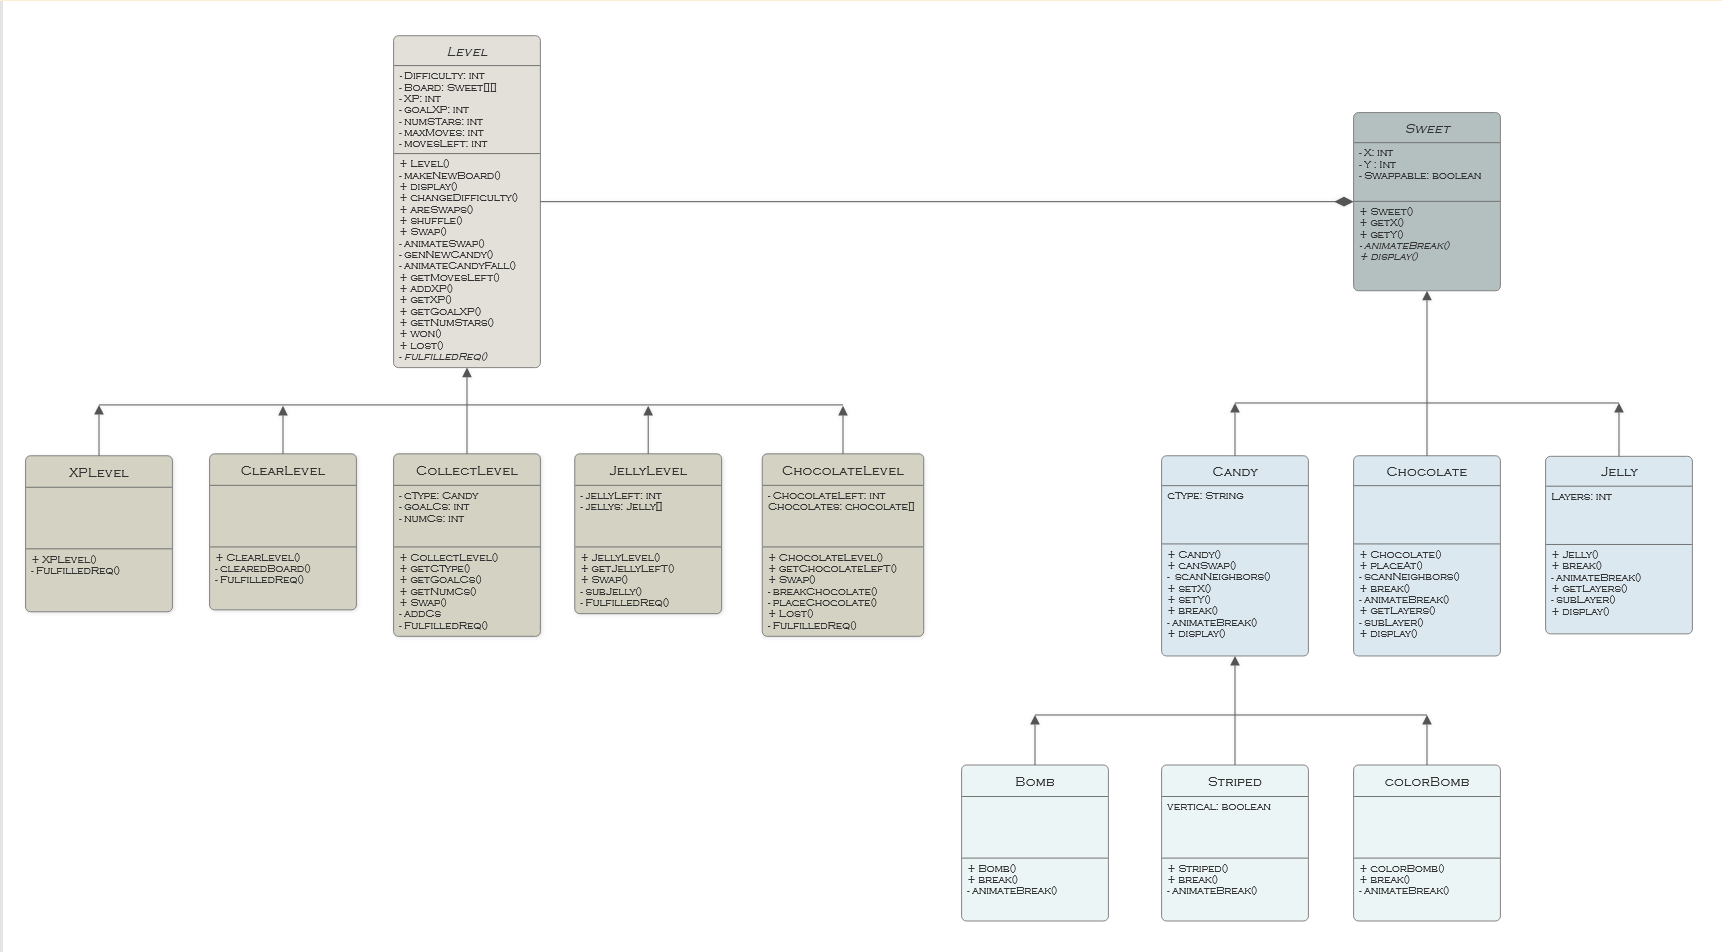
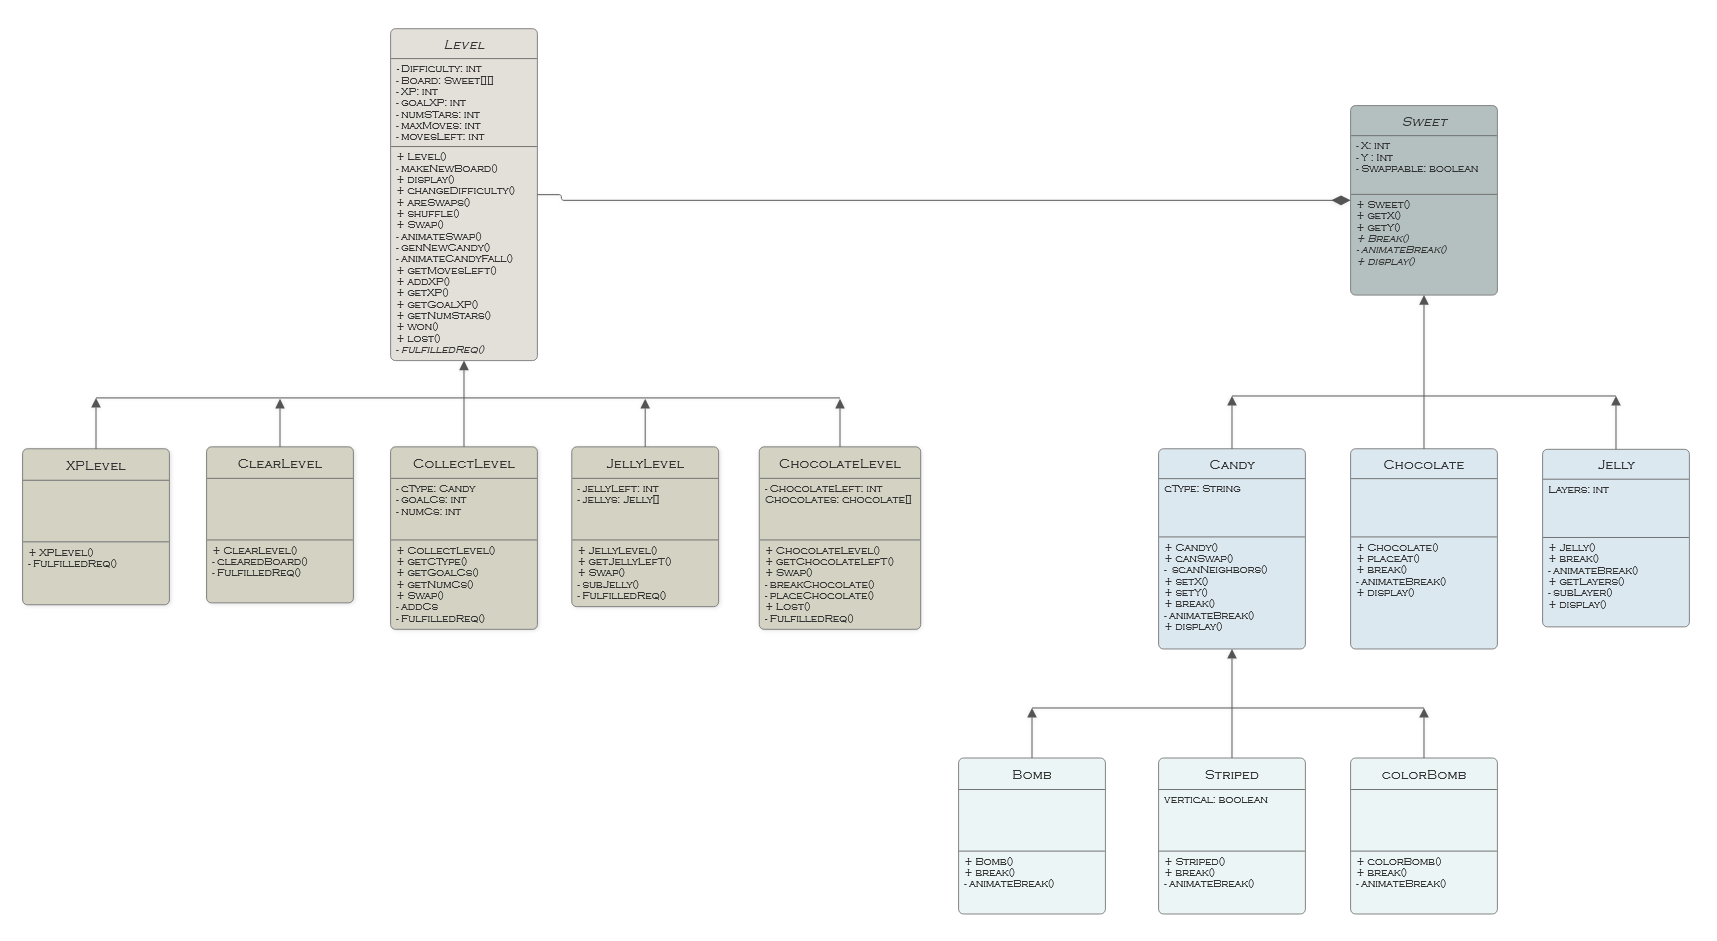
Finished section 2

diff --git a/PROTOTYPE.md b/PROTOTYPE.md
@@ -15,19 +15,20 @@ the one you get depends on the formation of the normal candies that spawned the 
 
 This will be done in Processing.
 
+
 Expanded Description:
 
 Critical features (Minimum Viable Product) - After 1.5 weeks, we must have the following:
-		- At least 1 working level that has the same goal but randomized starting boards each time it is played
-		- Decent graphics (some shading, some animation)
-		- Play Again or Retry feature
-		- A basic way of changing the difficulty (will get replaced if we make multiple levels)
+	- At least 1 working level that has the same goal but randomized starting boards each time it is played
+	- Decent graphics (some shading, some animation)
+	- Play Again or Retry feature
+	- A basic way of changing the difficulty (will get replaced if we make multiple levels)
 
 Nice to have features - By the end it would be nice to have:
-		- Multiple levels and a main menu
-		- More detailed graphics and an interesting background
-		- Different goals in different levels
-		- POSSIBLY game sounds and/or music
+	- Multiple levels and a main menu
+	- More detailed graphics and an interesting background
+	- Different goals in different levels
+	- POSSIBLY game sounds and/or music
 
 Topics covered in class that we will be using:
   - Processing
@@ -38,10 +39,95 @@ Topics covered in class that we will be using:
 
 ![Alt text](uml.png?raw=true "Class hierarchy diagram" )
 
-UML Diagrams and descriptions of key algorithms, classes, and how things fit together.
+Levels will be created in the main tab.
+The main tab is not part of the class hierarchy.
 
-Classes:
-  - Candy---abstract. String type, ints x and y.
+Each level has an abstract parent level. Every level needs to do certain things, such as
+  - Keeping track of/updating XP and moves left
+	- Keeping track of whether you've won/lost
+	- Deciding whether there are viable swaps on the board
+
+Key methods of the Level class:
+  - **makeNewBoard()** creates a new board---LEVEL TYPE SPECIFIC
+	- **genNewCandy()** generates new candy to fill in gaps left by previous moves
+	- **shuffle()** shuffles the board when no viable swaps are left
+	- **areSwaps()** ensures there are possible swaps left on the board
+	- **swap()** swaps the positions of two candies, then commences the breaking of the candies and refilling of the board.
+	  Swaps can only be executed if they will result in candy breaking (3+ in a row get lined up). See canSwap() in Candy.
+  - **changeDifficulty()** is a basic way of changing the difficulty by decreasing/increasing the number of moves you have.
+	  This function may get removed if enough unique levels are added, since they'll have varying difficulties.
+  - **fulfilledReq()** is level type specific and keeps track of whether the level has been beaten.
+	- If fulfilledReq(), **won()** is called to display a winning screen with stars and XP. Else if moves == 0, **lost()** is
+		called to display a screen with stars and XP.
+	- Everything named **get_()** is an accessor method
+	- **animateSwap()** animates a swap being made, **animateCandyFall()** animates the candy falling into place to fill a gap 
+		after a swap.
+
+CHILDREN OF LEVEL: 
+
+XPLevel:
+	- **fulfilledReq()** returns whether the goal XP has been reached yet.
+
+ClearLevel:
+	- **fulfilledReq()** = clearedBoard()
+	- **clearedBoard() checks whether the board has been cleared in one swap/move.**
+
+CollectLevel:
+	- **fulfilledReq()** returns whether the goal number of candy has been reached yet.
+	- **getCType()**, **getGoalCs()**, and **getNumCs()** return the candy type (color) needing to be collected, the goal amount,
+		and the current amount, respectively.
+	- **addCs()** adds a number of candy to the current sum.
+	- **swap()** is modified to add Cs during the swap (depending on how many Cs are broken).
+
+JellyLevel:
+	- **fulfilledReq()** returns whether all jelly has been cleared.
+	- **getJellyLeft()** returns the amount of jelly left.
+	- **subJelly()** subtracts the amount of jelly left according to the counter.
+	- **swap()** is modified to subJelly() during swaps atop jellies.
+
+ChocolateLevel:
+	- **fulfilledReq()** returns whether all chocolate has been cleared.
+	- **getChocolateLeft()** returns the amount of jelly left.
+	- **swap()** is modified to break chocolate neighbors of swaps.
+	- **breakChocolate()** breaks the chocolate called to break in swap().
+	- **placeChocolate()** places a chocolate next to another chocolate after each move/swap. See placeAt() in Chocolate.
+
+
+
+Sweet:
+	- Candies are swappable; other sweets are not.
+	- **getX()** and **getY()** return the x and y coords, respectively, of the sweet.
+	- **break()** breaks the current candy and its neighbors that are lined up (if applicable).
+	- **animateBreak()** animates the current sweet breaking: SWEET TYPE SPECIFIC
+	- **display()** displays the sweet
+
+CHILDREN OF SWEET:
+
+Chocolate:
+	- **placeAt()** returns the coordinates to place the next chocolate based on current chocolates on the board.
+
+Jelly:
+	- **getLayers()** returns the number of layers of jelly on this square.
+	- **subLayer()** subtracts a layer of jelly from this square.
+	
+Candy:
+	- **canSwap()** determines whether a swap the user is attempting to make is viable by scanning the neighbors of the
+		new x and y coords.
+	- **scanNeighbors()** scans to see if a swap would be productive/a viable move based on the neighbors of the new position.
+	- **setX()** and **setY()** are used when swapping a candy with its neighbor.
+	
+CHILDREN OF CANDY:
+
+Bomb:
+	- Breaks all candy around it in a 3x3 area---it is set off twice.
+
+Striped:
+	- Breaks a whole row/column.
+
+ColorBomb:
+	- Clears the whole board.
+	
+
 
 # Intended pacing:
 
